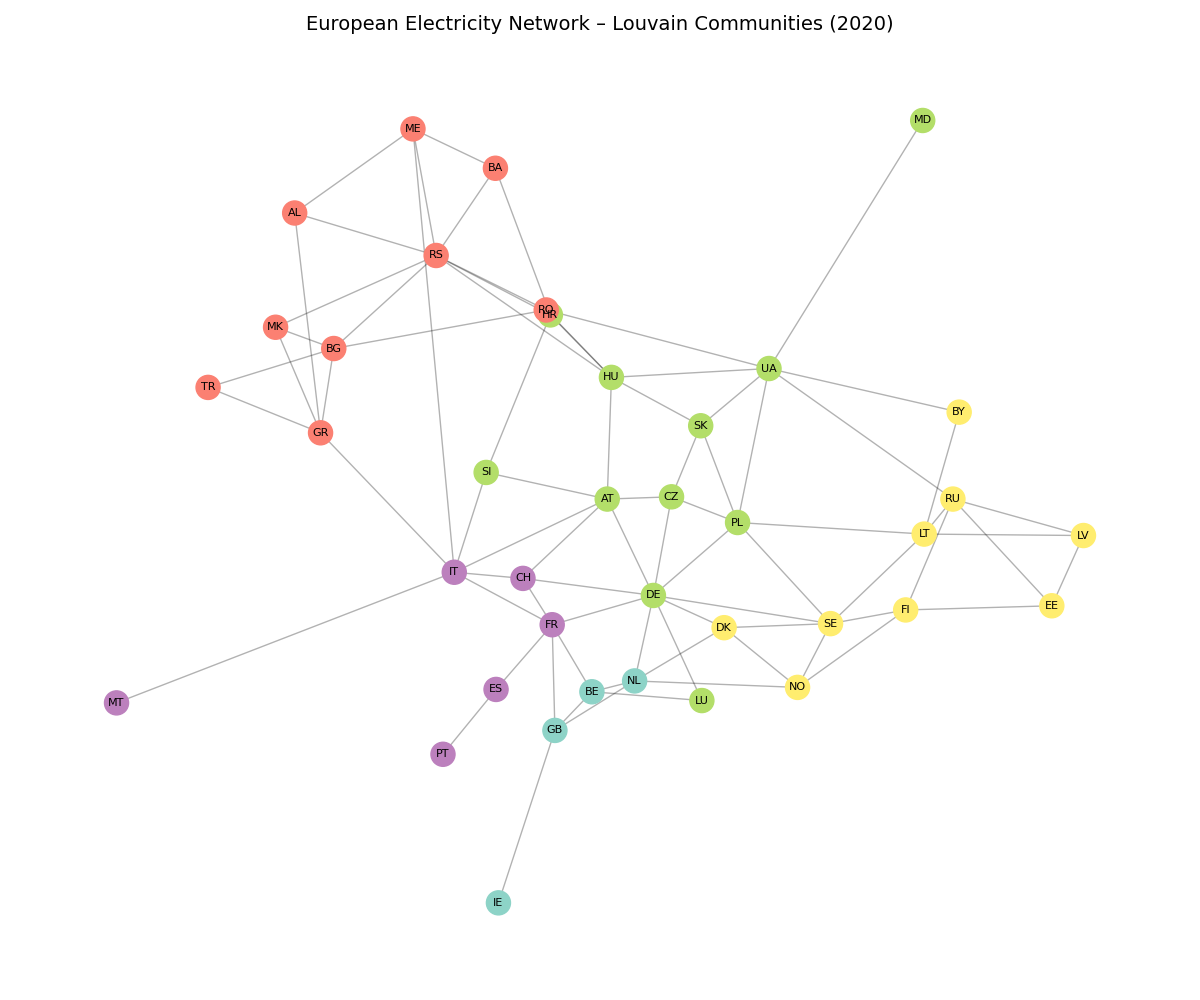
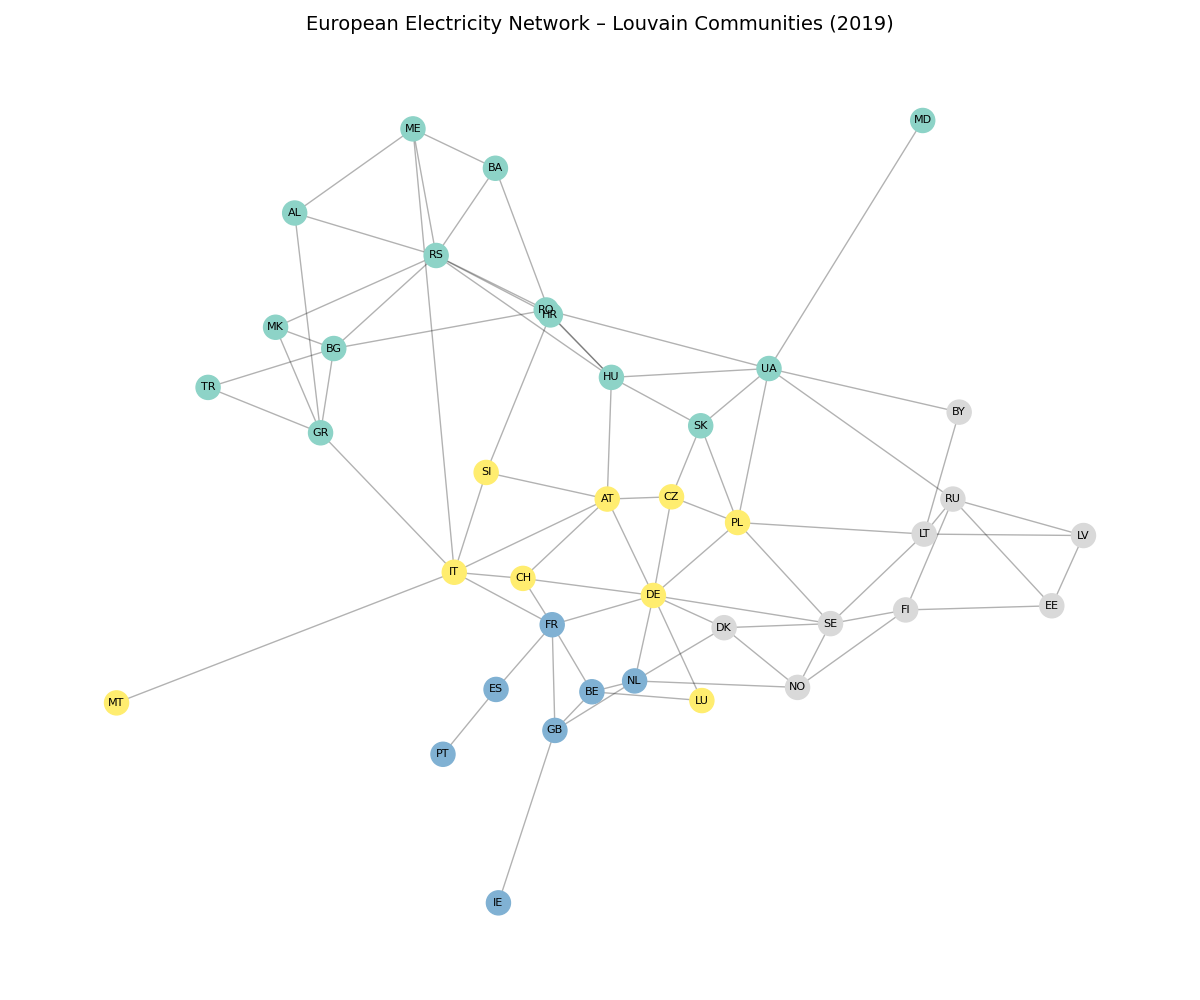
correzione

diff --git a/scripts/net_flow_analysis_2019.py b/scripts/net_flow_analysis_2019.py
@@ -1,7 +1,7 @@
 import pandas as pd
 import os
 
-# === 1. Caricamento dataset 2020 ===
+# === 1. Caricamento dataset 2019 ===
 df = pd.read_csv("../data/raw/physical_energy_power_flows_2019.csv", sep=";")
 
 # === 2. Filtro solo Export ===
@@ -20,11 +20,11 @@ net_flow["balance_MWh"] = net_flow["export_MWh"] - net_flow["import_MWh"]
 
 # === 5. Salvataggio ===
 os.makedirs("../metrics_2019", exist_ok=True)
-net_flow.to_csv("../metrics_2019/net_flow_from_export_only_2020.csv")
+net_flow.to_csv("../metrics_2019/net_flow_from_export_only_2019.csv")
 
 # === 6. Output a schermo ===
-print("\n🔝 Top 5 esportatori netti (surplus) - 2020:")
+print("\n🔝 Top 5 esportatori netti (surplus) - 2019:")
 print(net_flow.sort_values("balance_MWh", ascending=False).head(5))
 
-print("\n🔻 Top 5 importatori netti (deficit) - 2020:")
+print("\n🔻 Top 5 importatori netti (deficit) - 2019:")
 print(net_flow.sort_values("balance_MWh", ascending=True).head(5))

diff --git a/scripts/community_detection_2019.py b/scripts/community_detection_2019.py
@@ -32,7 +32,7 @@ partition = community_louvain.best_partition(G, weight='weight')
 os.makedirs("../metrics_2019", exist_ok=True)
 df_partition = pd.DataFrame.from_dict(partition, orient='index', columns=['community'])
 df_partition.index.name = 'country'
-df_partition.to_csv("../metrics_2019/louvain_partition_2020.csv")
+df_partition.to_csv("../metrics_2019/louvain_partition_2019.csv")
 
 print("\n🔍 Comunità rilevate (prime 5 righe):")
 print(df_partition.head())
@@ -46,7 +46,7 @@ nx.draw_networkx_nodes(G, pos, node_color=colors, cmap=plt.cm.Set3, node_size=30
 nx.draw_networkx_edges(G, pos, alpha=0.3)
 nx.draw_networkx_labels(G, pos, font_size=8)
 
-plt.title("European Electricity Network – Louvain Communities (2020)", fontsize=14)
+plt.title("European Electricity Network – Louvain Communities (2019)", fontsize=14)
 plt.axis("off")
 plt.tight_layout()
 
